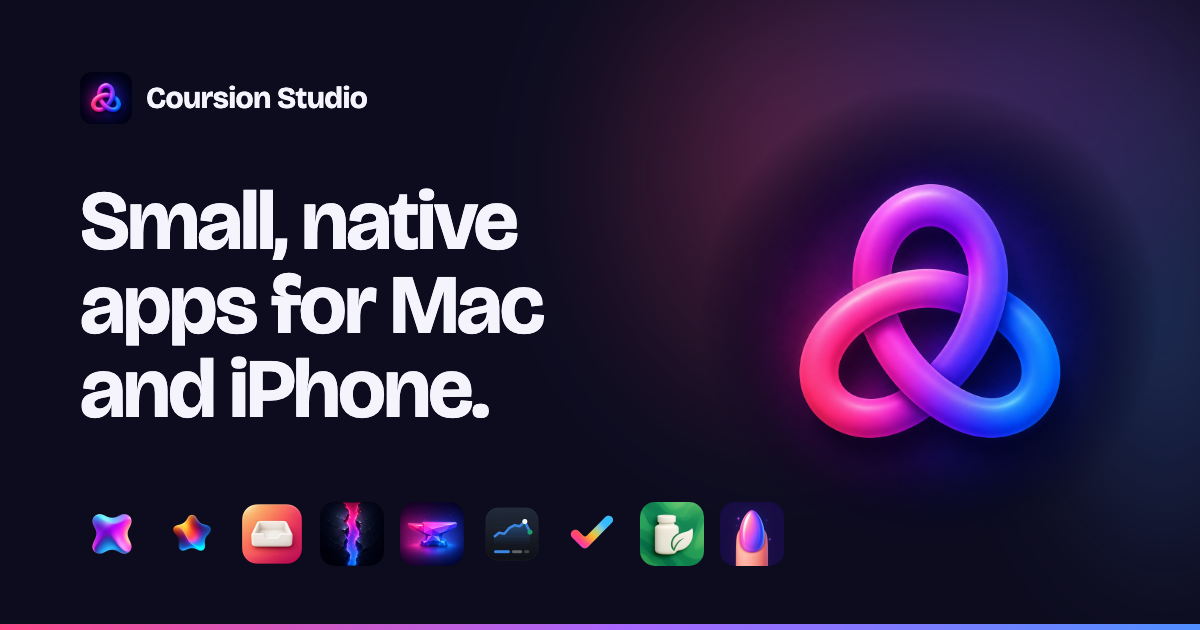
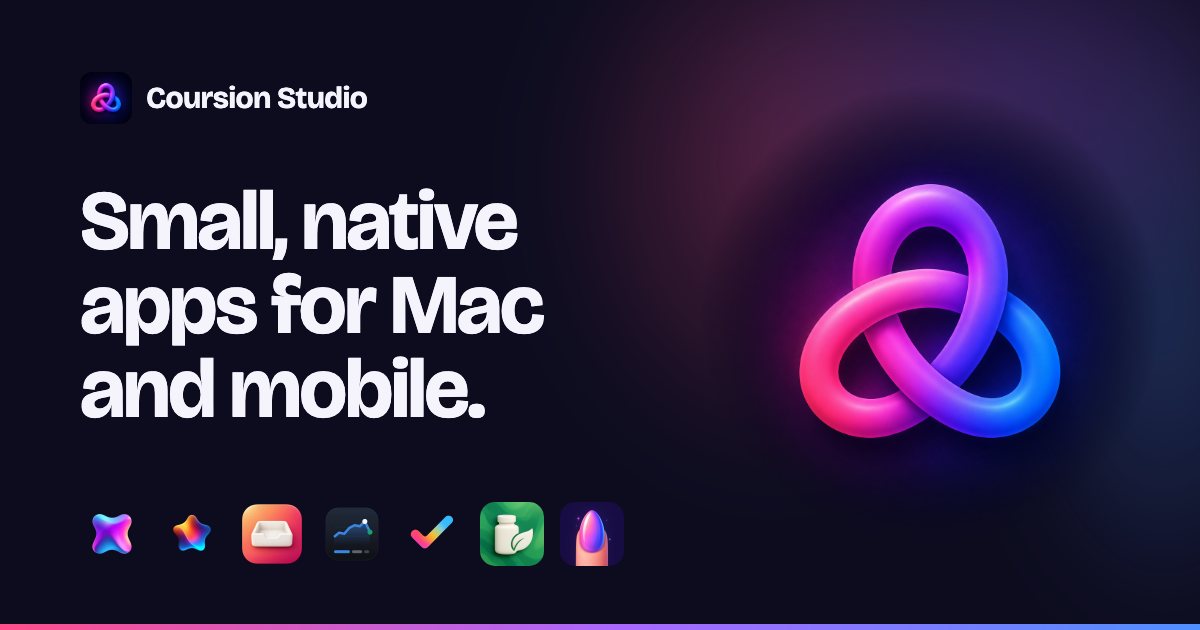
Drop Rift and Forge, rename iPhone to Mobile, fix contact email
- Remove Rift and Forge from the catalog, showcase, structured data,
  meta description and assets; they aren't ready to be public. The
  catalog now lists 7 apps and the hero copy no longer mentions coding
  agent tools.
- Rename the iPhone section, nav and buttons to Mobile and tag each
  mobile app with its platform. No Android build has a live Google Play
  listing yet, so every mobile app is marked iOS only.
- hello@coursion.studio bounces (no MX record, SPF -all, DMARC reject),
  so contact links and the Organization email point to
  kuraydev.io@gmail.com for now.
- Regenerate og.png without the removed apps.

Changed region(s): [[0.2775, 0.7841, 0.6783, 0.9048], [0.185, 0.573, 0.4008, 0.6635]]

diff --git a/index.html b/index.html
@@ -4,8 +4,8 @@
   <meta charset="utf-8" />
   <meta name="viewport" content="width=device-width, initial-scale=1" />
 
-  <title>Coursion Studio · Small, native apps for Mac and iPhone</title>
-  <meta name="description" content="Coursion Studio is an independent studio making focused native apps: Knack, AI Stats, Hutch, Rift, Forge and Device Performance Monitor for Mac, plus Noty, Nutrify and NailAI for iPhone." />
+  <title>Coursion Studio · Small, native apps for Mac and mobile</title>
+  <meta name="description" content="Coursion Studio is an independent studio making focused native apps: Knack, AI Stats, Hutch and Device Performance Monitor for Mac, plus Noty, Nutrify and NailAI on mobile." />
   <meta name="author" content="Coursion Studio" />
   <meta name="robots" content="index, follow, max-image-preview:large" />
   <link rel="canonical" href="https://coursion.studio/" />
@@ -19,18 +19,18 @@
 
   <meta property="og:type" content="website" />
   <meta property="og:site_name" content="Coursion Studio" />
-  <meta property="og:title" content="Coursion Studio · Small, native apps for Mac and iPhone" />
-  <meta property="og:description" content="An independent studio making focused native software for Mac and iPhone. On your device by default. Pay once where it fits." />
+  <meta property="og:title" content="Coursion Studio · Small, native apps for Mac and mobile" />
+  <meta property="og:description" content="An independent studio making focused native software for Mac and mobile. On your device by default. Pay once where it fits." />
   <meta property="og:image" content="https://coursion.studio/assets/og.png" />
   <meta property="og:image:width" content="1200" />
   <meta property="og:image:height" content="630" />
-  <meta property="og:image:alt" content="Coursion Studio: small, native apps for Mac and iPhone" />
+  <meta property="og:image:alt" content="Coursion Studio: small, native apps for Mac and mobile" />
   <meta property="og:url" content="https://coursion.studio/" />
   <meta property="og:locale" content="en_US" />
 
   <meta name="twitter:card" content="summary_large_image" />
-  <meta name="twitter:title" content="Coursion Studio · Small, native apps for Mac and iPhone" />
-  <meta name="twitter:description" content="An independent studio making focused native software for Mac and iPhone. On your device by default. Pay once where it fits." />
+  <meta name="twitter:title" content="Coursion Studio · Small, native apps for Mac and mobile" />
+  <meta name="twitter:description" content="An independent studio making focused native software for Mac and mobile. On your device by default. Pay once where it fits." />
   <meta name="twitter:image" content="https://coursion.studio/assets/og.png" />
 
   <meta name="theme-color" content="#0d0c1f" />
@@ -43,8 +43,8 @@
     "name": "Coursion Studio",
     "url": "https://coursion.studio",
     "logo": "https://coursion.studio/assets/icon-512.png",
-    "email": "hello@coursion.studio",
-    "description": "Independent software studio making native apps for Mac and iPhone.",
+    "email": "kuraydev.io@gmail.com",
+    "description": "Independent software studio making native apps for Mac and mobile.",
     "sameAs": ["https://github.com/kuraydev"]
   }
   </script>
@@ -57,12 +57,10 @@
       {"@type":"SoftwareApplication","position":1,"name":"Knack","operatingSystem":"macOS","applicationCategory":"UtilitiesApplication","url":"https://knack.coursion.studio","offers":{"@type":"Offer","price":"0","priceCurrency":"USD"}},
       {"@type":"SoftwareApplication","position":2,"name":"AI Stats","operatingSystem":"macOS, iOS, iPadOS","applicationCategory":"ProductivityApplication","url":"https://aistats.coursion.studio","offers":{"@type":"Offer","price":"0","priceCurrency":"USD"}},
       {"@type":"SoftwareApplication","position":3,"name":"Hutch","operatingSystem":"macOS","applicationCategory":"UtilitiesApplication","url":"https://hutch.coursion.studio"},
-      {"@type":"SoftwareApplication","position":4,"name":"Rift","operatingSystem":"macOS","applicationCategory":"DeveloperApplication","url":"https://rift.coursion.studio"},
-      {"@type":"SoftwareApplication","position":5,"name":"Forge","operatingSystem":"macOS","applicationCategory":"DeveloperApplication","url":"https://forge.coursion.studio"},
-      {"@type":"SoftwareApplication","position":6,"name":"Device Performance Monitor","operatingSystem":"macOS","applicationCategory":"DeveloperApplication","url":"https://dpm.coursion.studio","offers":{"@type":"Offer","price":"0","priceCurrency":"USD"}},
-      {"@type":"MobileApplication","position":7,"name":"Noty: AI Daily Planner & Focus","operatingSystem":"iOS","applicationCategory":"ProductivityApplication","url":"https://apps.apple.com/us/app/noty-ai-daily-planner-focus/id1620951759"},
-      {"@type":"MobileApplication","position":8,"name":"Nutrify - Supplement Tracker","operatingSystem":"iOS","applicationCategory":"HealthApplication","url":"https://apps.apple.com/us/app/nutrify-supplement-tracker/id6753355163"},
-      {"@type":"MobileApplication","position":9,"name":"NailAI - Nail Art & Health","operatingSystem":"iOS","applicationCategory":"LifestyleApplication","url":"https://apps.apple.com/us/app/nailai-nail-art-health/id6751233030"}
+      {"@type":"SoftwareApplication","position":4,"name":"Device Performance Monitor","operatingSystem":"macOS","applicationCategory":"DeveloperApplication","url":"https://dpm.coursion.studio","offers":{"@type":"Offer","price":"0","priceCurrency":"USD"}},
+      {"@type":"MobileApplication","position":5,"name":"Noty: AI Daily Planner & Focus","operatingSystem":"iOS","applicationCategory":"ProductivityApplication","url":"https://apps.apple.com/us/app/noty-ai-daily-planner-focus/id1620951759"},
+      {"@type":"MobileApplication","position":6,"name":"Nutrify - Supplement Tracker","operatingSystem":"iOS","applicationCategory":"HealthApplication","url":"https://apps.apple.com/us/app/nutrify-supplement-tracker/id6753355163"},
+      {"@type":"MobileApplication","position":7,"name":"NailAI - Nail Art & Health","operatingSystem":"iOS","applicationCategory":"LifestyleApplication","url":"https://apps.apple.com/us/app/nailai-nail-art-health/id6751233030"}
     ]
   }
   </script>
@@ -85,7 +83,7 @@
       </a>
       <nav class="site-nav" aria-label="Primary">
         <a href="#mac">Mac apps</a>
-        <a href="#iphone">iPhone apps</a>
+        <a href="#mobile">Mobile apps</a>
         <a href="#how">How we work</a>
         <a class="nav-contact" href="#contact">Contact</a>
       </nav>
@@ -96,31 +94,29 @@
     <section class="hero" aria-labelledby="hero-title">
       <div class="wrap hero-grid">
         <div>
-          <h1 id="hero-title">Small, native apps for Mac and iPhone.</h1>
-          <p class="hero-lede">Coursion Studio is an independent studio. We make focused tools: a Mac toolkit, a drawer of everyday utilities, AI usage tracking, developer tools for working with coding agents, and a few iPhone apps for daily life. They do their work on your device, and where it fits, you pay once.</p>
+          <h1 id="hero-title">Small, native apps for Mac and mobile.</h1>
+          <p class="hero-lede">Coursion Studio is an independent studio. We make focused tools: a Mac toolkit, a drawer of everyday utilities, AI usage tracking, a performance monitor for mobile developers, and a few mobile apps for daily life. They do their work on your device, and where it fits, you pay once.</p>
           <div class="hero-actions">
             <a class="btn btn-solid" href="#mac">See the Mac apps <svg aria-hidden="true"><use href="#i-arrow"/></svg></a>
-            <a class="btn btn-line" href="#iphone">See the iPhone apps</a>
+            <a class="btn btn-line" href="#mobile">See the mobile apps</a>
           </div>
         </div>
 
         <nav class="catalog" aria-labelledby="catalog-title">
           <div class="catalog-head">
             <h2 id="catalog-title">Everything we make</h2>
-            <span>9 apps</span>
+            <span>7 apps</span>
           </div>
           <ul>
             <li class="catalog-group" aria-hidden="true">Mac</li>
             <li><a href="#knack" style="--c:#e25cf0"><img src="assets/icons/knack.webp" alt="" width="40" height="40" /><span><span class="c-name">Knack</span><span class="c-what">Twenty on-device tools in one window</span></span><span class="c-plat">App Store<span class="c-arrow" aria-hidden="true">→</span></span></a></li>
             <li><a href="#aistats" style="--c:#4f8fff"><img src="assets/icons/aistats.webp" alt="" width="40" height="40" /><span><span class="c-name">AI Stats</span><span class="c-what">Your AI usage limits, at a glance</span></span><span class="c-plat">App Store<span class="c-arrow" aria-hidden="true">→</span></span></a></li>
             <li><a href="#hutch" style="--c:#ff8a5c"><img src="assets/icons/hutch.webp" alt="" width="40" height="40" /><span><span class="c-name">Hutch</span><span class="c-what">Launcher, file shelf and four more utilities</span></span><span class="c-plat">Early access<span class="c-arrow" aria-hidden="true">→</span></span></a></li>
-            <li><a href="#rift" style="--c:#ff4f8b"><img src="assets/icons/rift.webp" alt="" width="40" height="40" /><span><span class="c-name">Rift</span><span class="c-what">Review the code your AI agent wrote</span></span><span class="c-plat">Download<span class="c-arrow" aria-hidden="true">→</span></span></a></li>
-            <li><a href="#forge" style="--c:#b8d14f"><img src="assets/icons/forge.webp" alt="" width="40" height="40" /><span><span class="c-name">Forge</span><span class="c-what">An agent-first IDE on your own Mac</span></span><span class="c-plat">Download<span class="c-arrow" aria-hidden="true">→</span></span></a></li>
             <li><a href="#dpm" style="--c:#4fd1a5"><img src="assets/icons/dpm.webp" alt="" width="40" height="40" /><span><span class="c-name">Device Performance Monitor</span><span class="c-what">Live memory, CPU and FPS for your mobile app</span></span><span class="c-plat">Download<span class="c-arrow" aria-hidden="true">→</span></span></a></li>
-            <li class="catalog-group" aria-hidden="true">iPhone</li>
-            <li><a href="#noty" style="--c:#ffb547"><img src="assets/icons/noty.webp" alt="" width="40" height="40" /><span><span class="c-name">Noty</span><span class="c-what">A daily planner that starts fresh each day</span></span><span class="c-plat">App Store<span class="c-arrow" aria-hidden="true">→</span></span></a></li>
-            <li><a href="#nutrify" style="--c:#4fd1a5"><img src="assets/icons/nutrify.webp" alt="" width="40" height="40" /><span><span class="c-name">Nutrify</span><span class="c-what">Supplement and vitamin tracker</span></span><span class="c-plat">App Store<span class="c-arrow" aria-hidden="true">→</span></span></a></li>
-            <li><a href="#nailai" style="--c:#ff6fae"><img src="assets/icons/nailai.webp" alt="" width="40" height="40" /><span><span class="c-name">NailAI</span><span class="c-what">Try nail designs on your own hands</span></span><span class="c-plat">App Store<span class="c-arrow" aria-hidden="true">→</span></span></a></li>
+            <li class="catalog-group" aria-hidden="true">Mobile</li>
+            <li><a href="#noty" style="--c:#ffb547"><img src="assets/icons/noty.webp" alt="" width="40" height="40" /><span><span class="c-name">Noty <span class="c-os">iOS</span></span><span class="c-what">A daily planner that starts fresh each day</span></span><span class="c-plat">App Store<span class="c-arrow" aria-hidden="true">→</span></span></a></li>
+            <li><a href="#nutrify" style="--c:#4fd1a5"><img src="assets/icons/nutrify.webp" alt="" width="40" height="40" /><span><span class="c-name">Nutrify <span class="c-os">iOS</span></span><span class="c-what">Supplement and vitamin tracker</span></span><span class="c-plat">App Store<span class="c-arrow" aria-hidden="true">→</span></span></a></li>
+            <li><a href="#nailai" style="--c:#ff6fae"><img src="assets/icons/nailai.webp" alt="" width="40" height="40" /><span><span class="c-name">NailAI <span class="c-os">iOS</span></span><span class="c-what">Try nail designs on your own hands</span></span><span class="c-plat">App Store<span class="c-arrow" aria-hidden="true">→</span></span></a></li>
           </ul>
         </nav>
       </div>
@@ -210,53 +206,7 @@
           </div>
         </article>
 
-        <article class="product product-rift flip" id="rift" aria-labelledby="rift-title">
-          <div class="product-grid">
-            <div class="product-copy">
-              <div class="product-id">
-                <img src="assets/icons/rift.webp" alt="" width="56" height="56" />
-                <div><div class="name">Rift</div><div class="kind">Code review for macOS</div></div>
-              </div>
-              <h3 id="rift-title">Trust the code your agent wrote.</h3>
-              <p>Rift reviews AI-generated code before it merges. An on-device model triages every staged diff, Claude takes a deeper look at the risky ones using your own key, and the blame gutter names the agent session behind each line.</p>
-              <dl class="facts">
-                <div><dt>Runs on</dt><dd>macOS 26+, Apple silicon</dd></div>
-                <div><dt>Updates</dt><dd>Built in, via Sparkle</dd></div>
-              </dl>
-              <div class="product-actions">
-                <a class="btn btn-solid" href="https://github.com/Coursion-Studio/rift-website/releases/latest"><svg aria-hidden="true"><use href="#i-down"/></svg> Download Rift</a>
-                <a class="btn btn-line" href="https://rift.coursion.studio">Visit the site <svg aria-hidden="true"><use href="#i-out"/></svg></a>
-              </div>
-            </div>
-            <figure class="shot">
-              <img src="assets/shots/rift.webp" width="1600" height="1004" loading="lazy" decoding="async" alt="Rift's editor with a project file tree, a Swift file open, a minimap and a Review button in the toolbar." />
-            </figure>
-          </div>
-        </article>
 
-        <article class="product product-forge" id="forge" aria-labelledby="forge-title">
-          <div class="product-grid">
-            <div class="product-copy">
-              <div class="product-id">
-                <img src="assets/icons/forge.webp" alt="" width="56" height="56" />
-                <div><div class="name">Forge</div><div class="kind">Agent workbench for macOS</div></div>
-              </div>
-              <h3 id="forge-title">A cloud-shaped IDE, on your own Mac.</h3>
-              <p>Open a project and get a workspace with everything a coding agent needs: terminals that keep running, AI chat on your own keys, a browser, code review and voice dictation. No VMs, no containers, no servers.</p>
-              <dl class="facts">
-                <div><dt>Runs on</dt><dd>macOS 15+</dd></div>
-                <div><dt>Updates</dt><dd>Built in, via Sparkle</dd></div>
-              </dl>
-              <div class="product-actions">
-                <a class="btn btn-solid" href="https://github.com/Coursion-Studio/forge/releases/latest"><svg aria-hidden="true"><use href="#i-down"/></svg> Download Forge</a>
-                <a class="btn btn-line" href="https://forge.coursion.studio">Visit the site <svg aria-hidden="true"><use href="#i-out"/></svg></a>
-              </div>
-            </div>
-            <figure class="shot">
-              <img src="assets/shots/forge.webp" width="1600" height="1130" loading="lazy" decoding="async" alt="A Forge workspace with a Claude Code terminal, a task board and a browser pane side by side." />
-            </figure>
-          </div>
-        </article>
 
         <article class="product product-dpm flip" id="dpm" aria-labelledby="dpm-title">
           <div class="product-grid">
@@ -283,17 +233,17 @@
         </article>
       </section>
 
-      <section id="iphone" aria-labelledby="iphone-title">
+      <section id="mobile" aria-labelledby="mobile-title">
         <div class="section-intro">
-          <h2 id="iphone-title">For iPhone</h2>
-          <p>Everyday apps built with Expo and React Native, with native Swift wherever the platform asks for it.</p>
+          <h2 id="mobile-title">For mobile</h2>
+          <p>Everyday apps built with Expo and React Native, with native code wherever the platform asks for it. Available on iPhone today.</p>
         </div>
 
         <div class="phones">
           <article class="phone-app" id="noty" style="--c:#ffb547">
             <img src="assets/icons/noty.webp" alt="" width="88" height="88" loading="lazy" />
             <div>
-              <div class="top"><h3>Noty</h3><span class="cat">Productivity</span></div>
+              <div class="top"><h3>Noty</h3><span class="cat">iOS · Productivity</span></div>
               <p>A daily planner that resets at midnight, so there's no backlog waiting for you. Tell it "plan my morning" or "find a slot for the gym" and it fits the day around you.</p>
               <a class="store" href="https://apps.apple.com/us/app/noty-ai-daily-planner-focus/id1620951759">Get Noty on the App Store <svg aria-hidden="true"><use href="#i-out"/></svg></a>
             </div>
@@ -302,7 +252,7 @@
           <article class="phone-app" id="nutrify" style="--c:#4fd1a5">
             <img src="assets/icons/nutrify.webp" alt="" width="88" height="88" loading="lazy" />
             <div>
-              <div class="top"><h3>Nutrify</h3><span class="cat">Health &amp; Fitness</span></div>
+              <div class="top"><h3>Nutrify</h3><span class="cat">iOS · Health &amp; Fitness</span></div>
               <p>Keep track of supplements, vitamins and medications. Flexible schedules, dose logging, reminders and streaks help you stay consistent.</p>
               <a class="store" href="https://apps.apple.com/us/app/nutrify-supplement-tracker/id6753355163">Get Nutrify on the App Store <svg aria-hidden="true"><use href="#i-out"/></svg></a>
             </div>
@@ -311,7 +261,7 @@
           <article class="phone-app" id="nailai" style="--c:#ff6fae">
             <img src="assets/icons/nailai.webp" alt="" width="88" height="88" loading="lazy" />
             <div>
-              <div class="top"><h3>NailAI</h3><span class="cat">Lifestyle</span></div>
+              <div class="top"><h3>NailAI</h3><span class="cat">iOS · Lifestyle</span></div>
               <p>Photograph your nails and NailAI renders new nail art onto your own hands, from a growing set of themes. It also gives you nail wellness insights.</p>
               <a class="store" href="https://apps.apple.com/us/app/nailai-nail-art-health/id6751233030">Get NailAI on the App Store <svg aria-hidden="true"><use href="#i-out"/></svg></a>
             </div>
@@ -320,7 +270,7 @@
           <article class="phone-app" id="aistats-ios" style="--c:#4f8fff">
             <img src="assets/icons/aistats.webp" alt="" width="88" height="88" loading="lazy" />
             <div>
-              <div class="top"><h3>AI Stats</h3><span class="cat">Productivity</span></div>
+              <div class="top"><h3>AI Stats</h3><span class="cat">iOS · Productivity</span></div>
               <p>Your AI usage limits on the Home Screen and Lock Screen, with a refresh button on the widget. One purchase covers iPhone, iPad and Mac.</p>
               <a class="store" href="https://apps.apple.com/us/app/aistats-ai-usage-tracker/id6762005507">Get AI Stats on the App Store <svg aria-hidden="true"><use href="#i-out"/></svg></a>
             </div>
@@ -340,11 +290,11 @@
           </div>
           <div class="principle">
             <h3>Native, whatever the stack</h3>
-            <p>SwiftUI on the Mac. React Native and Expo on iPhone, with Swift and Kotlin wherever a real platform API is the honest answer. Whatever sits underneath, the app should feel quick, quiet and at home.</p>
+            <p>SwiftUI on the Mac. React Native and Expo on mobile, with Swift and Kotlin wherever a real platform API is the honest answer. Whatever sits underneath, the app should feel quick, quiet and at home.</p>
           </div>
           <div class="principle">
             <h3>Pay once where we can</h3>
-            <p>Our Mac apps are free or a one-time purchase. When an app has a running cost behind it, like AI features on iPhone, it may use a subscription, and the App Store page says so up front.</p>
+            <p>Our Mac apps are free or a one-time purchase. When an app has a running cost behind it, like AI features in our mobile apps, it may use a subscription, and the App Store page says so up front.</p>
           </div>
           <div class="principle">
             <h3>Range over a single bet</h3>
@@ -359,7 +309,7 @@
             <h2 id="contact-title">A question, a bug or an idea?</h2>
             <p>Email goes straight to the people who build the apps. Press and partnership requests are welcome too.</p>
           </div>
-          <a class="mail" href="mailto:hello@coursion.studio">hello@coursion.studio</a>
+          <a class="mail" href="mailto:kuraydev.io@gmail.com">kuraydev.io@gmail.com</a>
         </div>
       </section>
     </div>
@@ -370,7 +320,7 @@
       <span>© 2026 Coursion Studio</span>
       <nav aria-label="Footer">
         <a href="#mac">Mac apps</a>
-        <a href="#iphone">iPhone apps</a>
+        <a href="#mobile">Mobile apps</a>
         <a href="privacy.html">Privacy</a>
         <a href="https://github.com/kuraydev">GitHub</a>
       </nav>

diff --git a/styles.css b/styles.css
@@ -289,6 +289,16 @@ p { margin: 0; text-wrap: pretty; }
 .catalog img { width: 40px; height: 40px; border-radius: 10px; }
 .catalog .c-name { font-weight: 600; font-size: 16px; line-height: 1.3; }
 .catalog .c-what { display: block; color: var(--text-3); font-size: 14px; line-height: 1.35; white-space: nowrap; overflow: hidden; text-overflow: ellipsis; }
+.catalog .c-os {
+  margin-left: 6px;
+  padding: 1px 7px;
+  border-radius: 6px;
+  border: 1px solid var(--line-strong);
+  font-size: 12px;
+  font-weight: 600;
+  color: var(--text-2);
+  vertical-align: 1px;
+}
 .catalog .c-plat { font-size: 13px; color: var(--text-3); white-space: nowrap; }
 .catalog .c-arrow {
   display: inline-block;
@@ -426,8 +436,6 @@ p { margin: 0; text-wrap: pretty; }
 .product-knack { --c: #e25cf0; --c-soft: rgba(226, 92, 240, 0.2); }
 .product-aistats { --c: #4f8fff; --c-soft: rgba(79, 143, 255, 0.22); }
 .product-hutch { --c: #ff8a5c; --c-soft: rgba(255, 128, 92, 0.2); }
-.product-rift { --c: #ff4f8b; --c-soft: rgba(255, 79, 139, 0.2); }
-.product-forge { --c: #b8d14f; --c-soft: rgba(184, 209, 79, 0.14); }
 .product-dpm { --c: #4fd1a5; --c-soft: rgba(79, 209, 165, 0.15); }
 
 code {

diff --git a/privacy.html b/privacy.html
@@ -25,9 +25,9 @@
       </a>
       <nav class="site-nav" aria-label="Primary">
         <a href="./#mac">Mac apps</a>
-        <a href="./#iphone">iPhone apps</a>
+        <a href="./#mobile">Mobile apps</a>
         <a href="./#how">How we work</a>
-        <a class="nav-contact" href="mailto:hello@coursion.studio">Contact</a>
+        <a class="nav-contact" href="mailto:kuraydev.io@gmail.com">Contact</a>
       </nav>
     </div>
   </header>
@@ -51,7 +51,7 @@
       </ul>
 
       <h2>Contact</h2>
-      <p>Questions or requests: <a href="mailto:hello@coursion.studio">hello@coursion.studio</a>.</p>
+      <p>Questions or requests: <a href="mailto:kuraydev.io@gmail.com">kuraydev.io@gmail.com</a>.</p>
     </article>
   </main>
 
@@ -60,7 +60,7 @@
       <span>© 2026 Coursion Studio</span>
       <nav aria-label="Footer">
         <a href="./">Home</a>
-        <a href="mailto:hello@coursion.studio">hello@coursion.studio</a>
+        <a href="mailto:kuraydev.io@gmail.com">kuraydev.io@gmail.com</a>
         <a href="https://github.com/kuraydev">GitHub</a>
       </nav>
     </div>

diff --git a/README.md b/README.md
@@ -28,7 +28,7 @@ And `www` CNAME → `<github-user>.github.io`.
 
 ## Structure
 
-- `index.html` — studio landing: app catalog, Mac showcase, iPhone apps, principles
+- `index.html` — studio landing: app catalog, Mac showcase, mobile apps, principles
 - `privacy.html` — studio-wide privacy
 - `styles.css` — shared styles for both pages
 - `assets/icons/`, `assets/shots/` — app icons and screenshots (WebP)
